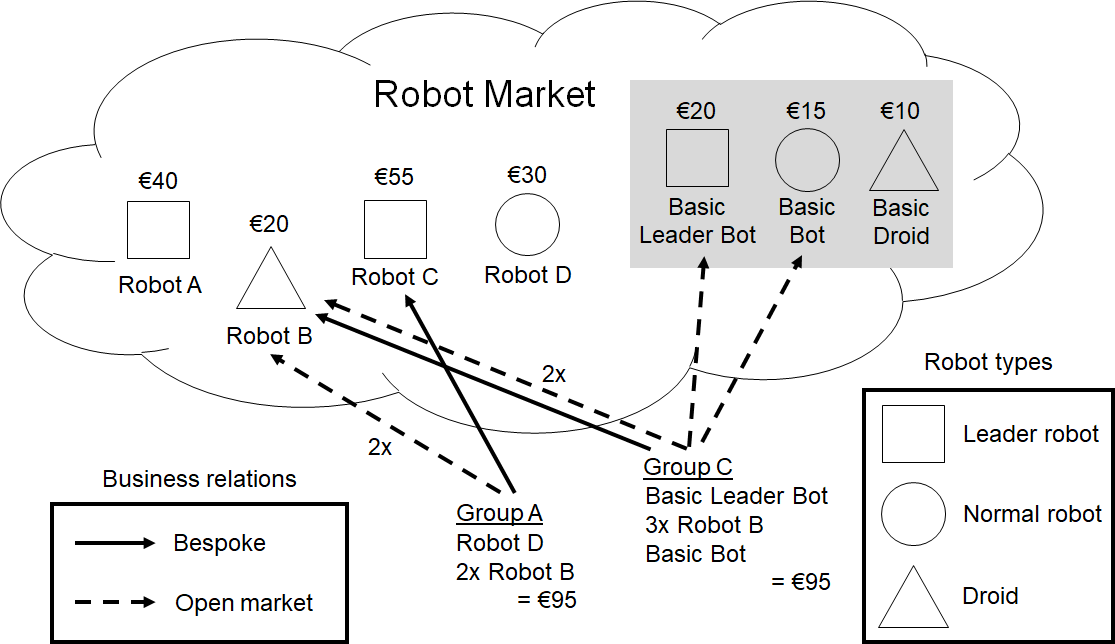
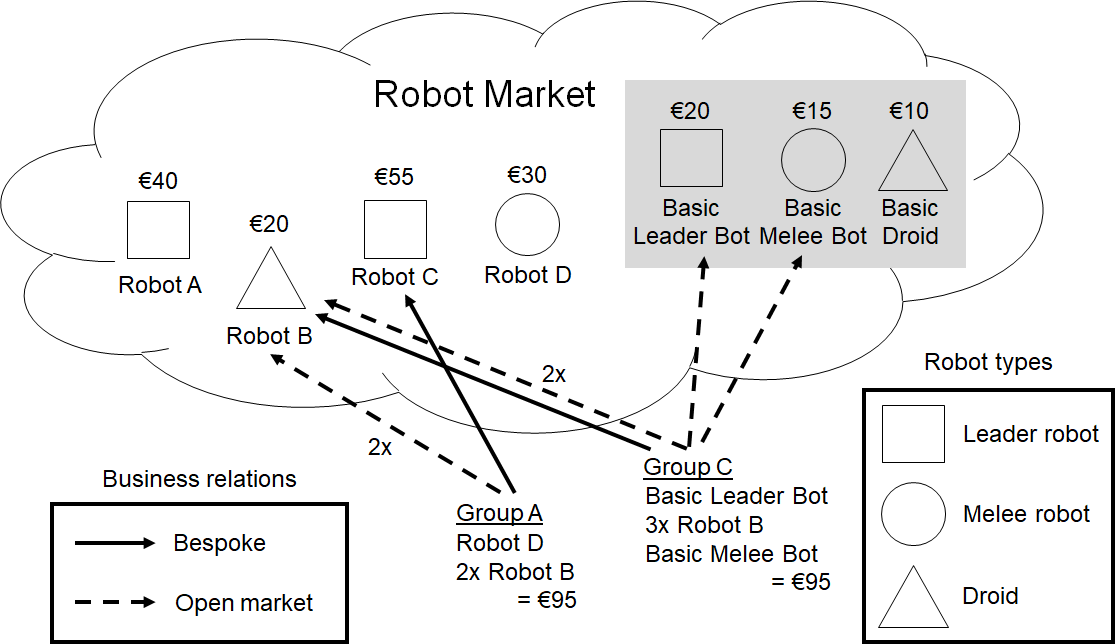
Replaced marketing by sales promotion and pitching

diff --git a/project/rumble/ProjectInstructions.tex b/project/rumble/ProjectInstructions.tex
@@ -152,7 +152,7 @@ Figure~\ref{fig:overview} shows the four main phases of the project. First, duri
 
 Figure~\ref{fig:context} shows the context of each individual group during the project. Organizationally, your group has three divisions: 1) engineering, 2) purchasing, and 3) sales. Your group will assign the following roles: 1) project manager, 2) requirements engineer, 3) development lead, 4) test lead, 5) domain expert, and 6) sales engineer. Each role is described in detail in Section~\ref{sec:roles}.
 
-Project groups do not exist in isolation, instead they act in a business ecosystem. During engineering of the robot, each project group will be part of two supplier-customer relationships. First, your sales engineer will be responsible for marketing the robot under development. The domain expert of another project group will sign a contract of sale, establishing a formal relationship. Your sales engineer will be the primary communication point for the purchasing group's domain expert, i.e., a supplier-customer relationship involving feedback, feature requests, and negotiations. Second, analogously, your domain expert will act as the customer in a supplier-customer relationship with another project group. Note that, in some cases, project groups might buy from and sell to the same other group -- this is not regulated in the ecosystem.
+Project groups do not exist in isolation, instead they act in a business ecosystem. During engineering of the robot, each project group will be part of two supplier-customer relationships. First, your sales engineer will be responsible for promoting sales of the robot under development. The domain expert of another project group will sign a contract of sale, establishing a formal relationship. Your sales engineer will be the primary communication point for the purchasing group's domain expert, i.e., a supplier-customer relationship involving feedback, feature requests, and negotiations. Second, analogously, your domain expert will act as the customer in a supplier-customer relationship with another project group. Note that, in some cases, project groups might buy from and sell to the same other group -- this is not regulated in the ecosystem.
 
 On top of the two supplier-customer relationships, your project group will also communicate with the regulatory body (represented by your project supervisor). Your project group will hand in various signed contracts to the regulatory body, turn to it if to get support during supplier-customer negotiations, and to report the results from your acceptance testing. The regulatory body might also contact you with regulatory changes during the course of the project. Finally, you will practice one-way communication with the Robot Market, i.e., the open market where you will sell your Robot. All project groups will complement their robot teams with additional robots during the last week of the project -- and your sales engineer will be responsible for maximizing sales of your robot. 
 
@@ -202,7 +202,7 @@ Requirements engineering, i.e., a systematic approach to developing a product wi
 
 The IEEE SRS template provides a standard document structure: 1) an introduction section, 2) an overall description of the product under development, and 3) a list of product features further broken down into detailed requirements. Furthermore, the template supports engineers to specify quality requirements such as performance, maintainability, and memory footprint. Project groups are recommended to use a combination of traditional requirements of ``shall'' format and step-wise use case descriptions. While also user stories are covered in the lectures, it uses a narrative style that is less appropriate for development of autonomous robots.
 
-The SRS connects all roles in the project group. While the requirements engineer is responsible for the SRS, the sales engineer is responsible for developing a marketing strategy based on its content. The SRS will be public on the Robot Market, i.e., when other project groups consider purchasing your robot, they will critically review your SRS. The domain expert, having the most chance to predict what features will be valued on the Robot Market, will provide important input to the SRS -- effectively acting as a proxy-customer until the supplier-customer relationship has been established. Finally, the development lead is responsible for implementing the SRS in source code and the test lead is responsible for verifying that the developed product fulfills the SRS.
+The SRS connects all roles in the project group. While the requirements engineer is responsible for the SRS, the sales engineer is responsible for developing a sales pitch based on its content. The SRS will be public on the Robot Market, i.e., when other project groups consider purchasing your robot, they will critically review your SRS. The domain expert, having the most chance to predict what features will be valued on the Robot Market, will provide important input to the SRS -- effectively acting as a proxy-customer until the supplier-customer relationship has been established. Finally, the development lead is responsible for implementing the SRS in source code and the test lead is responsible for verifying that the developed product fulfills the SRS.
 
 There are several quality attributes that a high-quality SRS should comply with. First, the SRS should be complete, i.e., if properly implemented, the developed product shall be a competitive robot. Just as importantly, the robot shall not offer any features that are not properly captured in the SRS -- the customer is not allowed any surprises. Second, the SRS should constitute a coherent document that is easy to follow. Furthermore, each individual requirement should be:
 
@@ -226,7 +226,7 @@ As a result from the specification activities, each project group shall produce 
 \subsection{Construction} \label{sec:constr}
 The first two computer labs will help project groups set up Robocode development in Eclipse and source code control in git. Moreover, the second computer lab will initiate automated unit testing, an activity that overlaps construction and verification.
 
-An early construction activity is software design. In this project, the design is limited to object-oriented design -- the robot development is too restricted to address any considerations on the software architecture level and there is also no user interaction design. Each project group will present the Object-Oriented Design (OOD) using a Unified Modeling Language (UML) class diagram. As the project in inspired by agile development methodologies, there will be no big design activity upfront. Instead, the OOD will evolve as the construction phase proceeds. The development lead is responsible to complement the final source code delivery with a class diagram to describe the OOD after-the-fact. Any project group that recognizes a value in using class diagrams in their robot marketing are of course welcome to do so. Furthermore, the final source code deliverable shall be complemented by Javadoc documentation.  
+An early construction activity is software design. In this project, the design is limited to object-oriented design -- the robot development is too restricted to address any considerations on the software architecture level and there is also no user interaction design. Each project group will present the Object-Oriented Design (OOD) using a Unified Modeling Language (UML) class diagram. As the project in inspired by agile development methodologies, there will be no big design activity upfront. Instead, the OOD will evolve as the construction phase proceeds. The development lead is responsible to complement the final source code delivery with a class diagram to describe the OOD after-the-fact. Any project group that recognizes a value in using class diagrams in their robot sales pitch are of course welcome to do so. Furthermore, the final source code deliverable shall be complemented by Javadoc documentation.  
 
 As most practical construction work will be done outside of scheduled sessions, how the backbone of the programming will be conducted must be decided by the individual project groups. Still, for this project, we recommend groups to follow a handful of well-known agile development practices, originally proposed as part of Extreme Programming (XP) [REF]. Below we list five that we believe are particularly suitable for the process model, along with their Wikipedia definitions:
 
@@ -266,7 +266,7 @@ As a result from the verification activities, each project group shall produce t
 \section{Monetizing the robot}
 One of the primary goals of the project is to maximize the profit of the group, i.e., monetizing the robot. The business aspects of the project involves a combination of bespoke software engineering and software engineering for an open market. All project groups will offer their robot on a highly competitive market -- consisting of the other groups, each with a \euro 100 budget to invest in a robot team for the LU Rumble.
 
-The project groups will market their Robot already at a robot fair already after Sprint 1. At this early point in time, only an Alpha release of the robot will be available and an initial version of the SRS -- still, the sales engineer is responsible for developing a convincing marketing concept. All groups will get the chance to pitch their robot through a two minute video at the robot fair, and also present it online on the Robot Market, complemented by the most recent SRS.
+The project groups will market their Robot already at a robot fair already after Sprint 1. At this early point in time, only an Alpha release of the robot will be available and an initial version of the SRS -- still, the sales engineer is responsible for developing a convincing sales pitch. All groups will get the chance to pitch their robot through a two minute video at the robot fair, and also present it online on the Robot Market, complemented by the most recent SRS.
 
 After the robot fair, all project groups will submit a ``purchase array'' to the regulatory body. The purchase array consists of one element per group, and each element should contain an integer representing how much your group is willing to pay for the corresponding robot. You are not allowed to make an offer for your own robot, and you are not allowed to offer less than \euro 10 for any other robot. The purchase array should be signed by the domain expert and delivered as a physical copy to the regulatory body through the mailbox in ``grå skåpet''.
 
@@ -283,7 +283,7 @@ When all project groups have provided their purchase arrays, the regulatory body
 
 Once robots have been pre-ordered, 25\% of their costs will be transferred from the customer to the supplier. This amount will not be refunded in any case -- it represents the risks of purchasing a robot from an external organization. The remainder of the cost will be transferred at the delivery of the final robot. After the final delivery, the domain expert of the purchasing project group conducts acceptance testing of the robot. If the acceptance testing shows that delivered robot does not fully comply with the SRS, the project manager of the purchasing group is entitled to file a business claim to the regulatory body, further described in Section~\ref{sec:regbody}.
 
-Each project group will also offer the robot under development on the Robot Market. After Sprint 3, all groups will seek to complement the pre-ordered (by now hopefully delivered) robot with additional robots to build a competitive robot team for the LU Rumble. Throughout Sprints 2 and 3, the sales engineer is responsible for marketing the robot on Robot Market. Each group will also set a price for its robot -- a group must for at least ask as much as what the bespoke customer has paid. Before the LU Rumble, the domain expert of each project group will sign purchase orders and deliver to the regulatory body through ``grå skåpet''. 
+Each project group will also offer the robot under development on the Robot Market. After Sprint 3, all groups will seek to complement the pre-ordered (by now hopefully delivered) robot with additional robots to build a competitive robot team for the LU Rumble. Throughout Sprints 2 and 3, the sales engineer is responsible for promoting sales of the robot on Robot Market. Each group will also set a price for its robot -- a group must for at least ask as much as what the bespoke customer has paid. Before the LU Rumble, the domain expert of each project group will sign purchase orders and deliver to the regulatory body through ``grå skåpet''. 
 
 Figure~\ref{fig:market} shows an example of how two project groups purchase robots. After the robot fair, Group A strikes a deal with Group C. As Robot C was quite costly, Group A complements it with two cheaper droids from Robot B to create a robot team. On the other hand, Robot B resulted from bespoke development for Group C -- and they liked the result enough to buy two more at a later stage. Furthermore, Group C complements the cheap droids by two basic bots: a Basic Leader Bot and a Basic Bot. Both Groups A and C spend \euro95 of their budgets.
 
@@ -344,13 +344,13 @@ The process model describing the product development encompasses three sprints, 
 \end{figure}
 
 \subsection{Sprint 1}
-The first sprint overlaps with the project inception as the groups will start working on robot development already at the first exercise sessions in the first week. The high-level goals of Sprint 1 are to successfully do: 1) feature scoping, 2) robot prototyping, and 3) developing a marketing concept. This means that the project group will be focused on engineering and monetizing during Sprint 1. Some strategizing will also occur, as the domain expert will purchase a robot from a supplier after the Robot Fair.
+The first sprint overlaps with the project inception as the groups will start working on robot development already at the first exercise sessions in the first week. The high-level goals of Sprint 1 are to successfully do: 1) feature scoping, 2) robot prototyping, and 3) developing a sales pitch. This means that the project group will be focused on engineering and monetizing during Sprint 1. Some strategizing will also occur, as the domain expert will purchase a robot from a supplier after the Robot Fair.
 
 The first steps of the requirements engineering involves analyzing what type of robot would be in high demand by the other project groups. This type of market analysis is no easy task to conduct, and surely the requirements engineer will discuss intensively with the domain expert and the sales engineer. Engineering a software product means making a series of successful technology and business decisions, and already during Sprint 1 the project group needs to set the direction for the engineering department. High-level requirements are referred to as features, and the task of deciding which features to implement in the product is called \textbf{feature scoping}. At the end of Sprint 1, SRS v0.5 should specify the features the group intends to implement in their robot. The features should be promising enough to generate good offers by other project groups, but do not promise too much (aka. ``over scoping'') -- if you do not deliver a robot that fulfils the specification in the final release, your customer will most likely file business claims to the regulatory body! On the other hand, the SRS v0.5 is not carved in stone. There will be negotiations during Sprints 2 and 3, and if both the customer and the regulatory body accept your change requests, you can both modify and remove features later -- and adding new features is of course always possible.
 
 A central part of the engineering in Sprint 1 is the \textbf{robot prototyping}, an activity that serves two main purposes. First, it helps your project group experiment with different candidate features for the robot under development. There is no better way to learn the Robocode domain than by practically implementing different approaches and evaluating them. Second, the prototyping will lead to an Alpha version of the Robot. The customer will obtain the Alpha release, which will enable much richer feedback than an SRS alone. To ensure that testing is part of the development process from the start, Sprint 1 will introduce unit testing in the second week.
 
-The \textbf{marketing concept} is the strategy that an organization implements to satisfy customers needs, increase sales, maximize profit, and beat the competition. The customers' focus and values are the routes to achieve sales and maximize profits. In the project, the marketing concept is a customer-centered ``sense and responds'' philosophy. Your project group's job is not to find the right customers for your robot, but rather to find the right robot for your customers -- first for the long-lasting supplier-customer relationship, and later through the Robot Market. At the end of Sprint 1, the course will organize a Robot Fair. Each group will get a 2 minute slot to pitch their product through a video. All project groups will also have a webpage on a shared Google Drive folder.
+The marketing concept is the strategy that an organization implements to satisfy customers needs, increase sales, maximize profit, and beat the competition. The customers' focus and values are the routes to achieve sales and maximize profits. In the project, the marketing concept is a customer-centered ``sense and responds'' philosophy. Your project group's job is not to find the right customers for your robot, but rather to find the right robot for your customers -- first for the long-lasting supplier-customer relationship, and later through the Robot Market. At the end of Sprint 1, the course will organize a Robot Fair. Each group will get a 2 minute slot to \textbf{pitch} their product through a video. All project groups will also have a webpage on a shared Google Drive folder.
 
 Sprint 1 shall result in the following deliverables to the following stakeholders. The responsible role is shown in parentheses.
 \begin{itemize}
@@ -496,7 +496,7 @@ As the project progresses through phases and sprints, different roles with have 
 \item[Domain expert] Mastering Robocode, LU Rumble strategy, supplier communication, negotiations, acceptance testing. The domain expert needs to be willing to learn about the game aspects of Robocode, thus pick your gamer. -- Signed contract (as customer), acceptance test report, team jar-file
 \item[Project manager] Coordination, time reporting, communication with the regulatory body. Identify a group member with leadership skills willing to shoulder overall responsibilities. -- Weekly time reports with reflections, business claims (based on failed acceptance test)
 \item[Requirements engineer] End-user perspective, feature scoping, detailed requirements. A requirements engineer bridges engineering and business, identify a generalist. -- SRS v0.5, SRS v0.9, SRS v1.0
-\item[Sales engineer] Marketing, customer communication, negotiations. Identify your natural salesman, a person with excellent communication skills. -- Marketing concept, signed contract (as supplier)
+\item[Sales engineer] Marketing, sales pitch, customer communication, negotiations. Identify your natural salesman, a person with excellent communication skills. -- Sales pitch, signed contract (as supplier)
 \item[Test manager] Test strategy, unit testing, system testing. Suitable for an individual with an eye for details. -- Unit tests, Test spec v1.0 (incl. test code), test results
 \end{description}
 
@@ -519,7 +519,7 @@ The following deliverables will be produced during the project, the list below p
 \item[LU Rumble team]
 \end{description}
 
-\section{Course infrastructure}
+\section{Project infrastructure}
 \emph{To be written...}\\\\
 The following infrastructure is central during the project:
 
@@ -541,7 +541,7 @@ Lab 1: Introduction to Robocode development\\
 Exercise 1: Robot feature scoping\\
 \textbf{Week 13}\\Lecture 2: Construction, Testing I, Business\\
 Lab 2: Object-oriented re-engineering, automated unit testing\\
-Exercise 2: Robot marketing\\
+Exercise 2: Sales promotion\\
 \textbf{Week 14}\\Exam week\\
 \textbf{Week 15}\\Exam week\\
 Deadline Friday April 13: Alpha release and marketing concept\\
